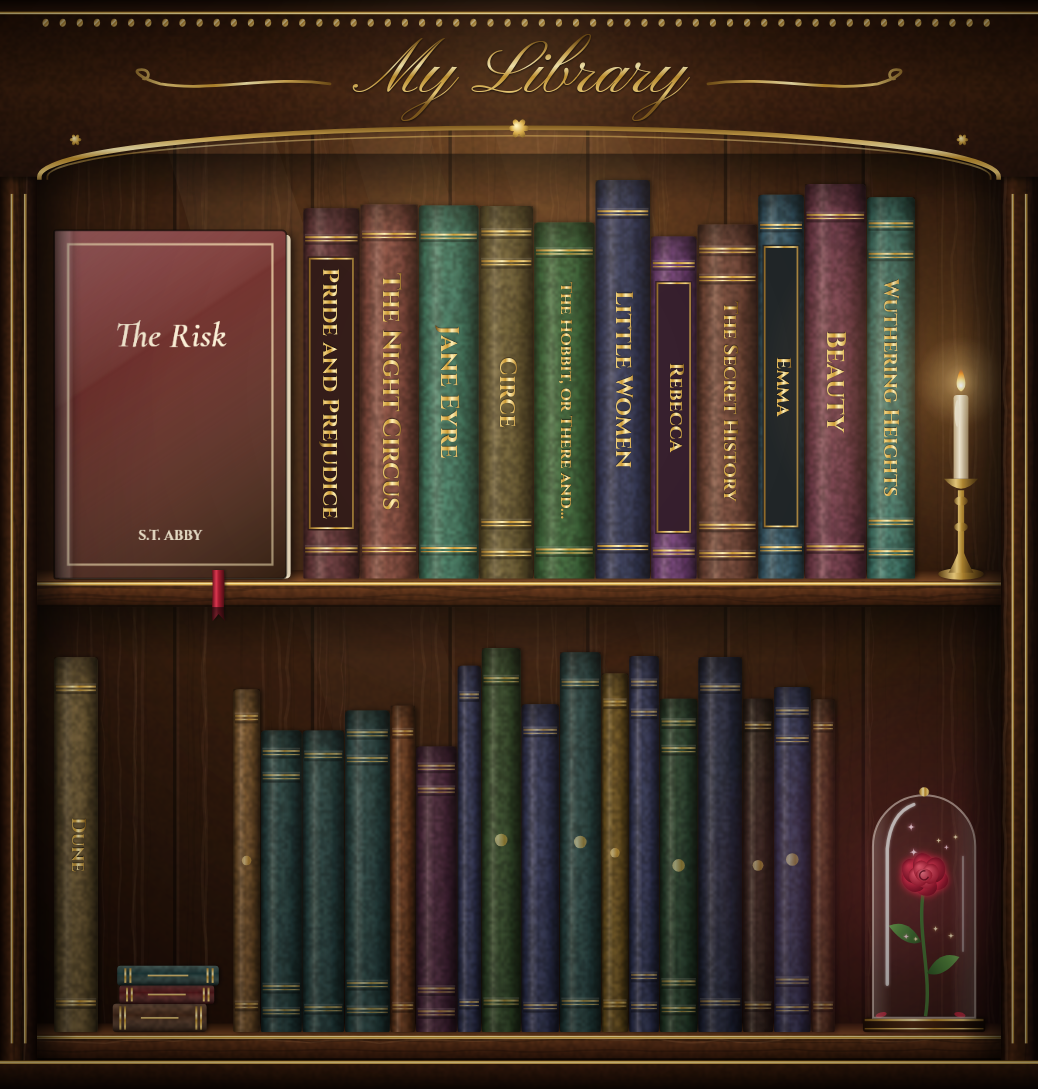
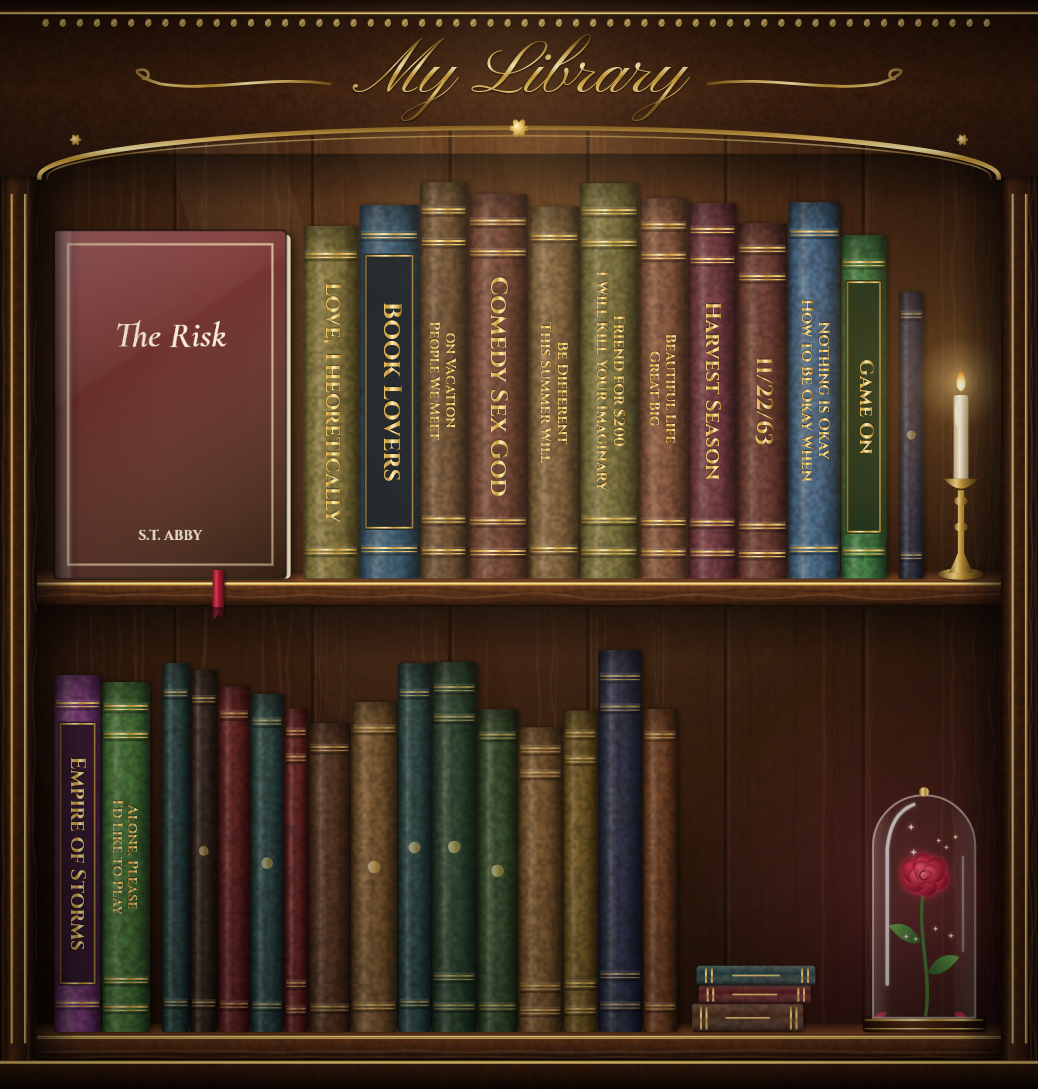
Wrap long spine titles onto two lines; brighter cover-tinted spines
Claude-Session: https://claude.ai/code/session_01DFpaGPqchzARfTBeW4za7c

diff --git a/enchanted-library-widget/EnchantedLibrary.js b/enchanted-library-widget/EnchantedLibrary.js
@@ -402,7 +402,7 @@ function renderLibrary(canvas, scene, makeCanvas) {
           tr += d[i] * wgt; tg += d[i + 1] * wgt; tb += d[i + 2] * wgt; tw += wgt;
         }
         const [h, s] = rgb2hsl([tr / tw, tg / tw, tb / tw]);
-        if (s > 0.12) base = hsl2rgb(h, clamp(s * 0.85, 0.3, 0.62), 0.2 + r() * 0.12);
+        if (s > 0.12) base = hsl2rgb(h, clamp(s * 0.9, 0.35, 0.72), 0.25 + r() * 0.1);
       } catch (e) { /* keep palette color */ }
     }
     return base;
@@ -624,22 +624,42 @@ function renderLibrary(canvas, scene, makeCanvas) {
       ctx.strokeRect(lx + 0.8 * u, t0 + 0.8 * u, lw - 1.6 * u, t1 - t0 - 1.6 * u);
     }
 
-    // Gilt title, running down the spine.
+    // Gilt title, running down the spine. Long titles wrap onto two lines
+    // when the spine is wide enough; otherwise they shrink, then truncate.
     const room = (t1 - t0) - 6 * u;
-    let text = shortTitle(title);
+    const text = shortTitle(title);
+    const setFont = size => { ctx.font = `700 ${size}px ${FONT_SPINE}`; };
+    const fits = (lines, size) => {
+      setFont(size);
+      return lines.every(l => ctx.measureText(l).width <= room);
+    };
+    let lines = [text];
     let fs = Math.min(w * 0.44, 10.5 * u);
-    ctx.font = `700 ${fs}px ${FONT_SPINE}`;
-    while (ctx.measureText(text).width > room && fs > 6 * u) {
-      fs -= 0.25 * u;
-      ctx.font = `700 ${fs}px ${FONT_SPINE}`;
-    }
-    if (ctx.measureText(text).width > room) {
+    while (!fits(lines, fs) && fs > 7.5 * u) fs -= 0.25 * u;
+    if (!fits(lines, fs) && text.includes(" ")) {
       const words = text.split(" ");
-      while (words.length > 1 && ctx.measureText(words.join(" ") + "…").width > room) words.pop();
-      text = words.join(" ");
-      while (text.length > 1 && ctx.measureText(text + "…").width > room) text = text.slice(0, -1);
-      text += "…";
+      let best = null;
+      for (let i = 1; i < words.length; i++) {
+        const pair = [words.slice(0, i).join(" "), words.slice(i).join(" ")];
+        setFont(10);
+        const longest = Math.max(...pair.map(l => ctx.measureText(l).width));
+        if (!best || longest < best.longest) best = { pair, longest };
+      }
+      lines = best.pair;
+      fs = Math.min(w * 0.3, 9 * u);
+      while (!fits(lines, fs) && fs > 5.5 * u) fs -= 0.25 * u;
+    } else {
+      while (!fits(lines, fs) && fs > 6 * u) fs -= 0.25 * u;
     }
+    setFont(fs);
+    lines = lines.map(line => {
+      if (ctx.measureText(line).width <= room) return line;
+      const words = line.split(" ");
+      while (words.length > 1 && ctx.measureText(words.join(" ") + "…").width > room) words.pop();
+      let t = words.join(" ");
+      while (t.length > 1 && ctx.measureText(t + "…").width > room) t = t.slice(0, -1);
+      return t + "…";
+    });
     ctx.save();
     ctx.translate(x + w / 2 + fs * 0.04, (t0 + t1) / 2);
     ctx.rotate(Math.PI / 2);
@@ -648,8 +668,14 @@ function renderLibrary(canvas, scene, makeCanvas) {
     ctx.shadowColor = "rgba(0,0,0,0.75)";
     ctx.shadowBlur = 1.2 * u;
     ctx.shadowOffsetY = -0.6 * u;
-    ctx.fillStyle = gold(0, -fs / 2, 0, fs / 2);
-    ctx.fillText(text, 0, 0);
+    const lh = fs * 1.12;
+    lines.forEach((line, i) => {
+      // Rotated 90° clockwise: the first line sits on the right, where a
+      // reader tilting their head to the right sees the top of the text.
+      const ly = ((lines.length - 1) / 2 - i) * lh;
+      ctx.fillStyle = gold(0, ly - fs / 2, 0, ly + fs / 2);
+      ctx.fillText(line, 0, ly);
+    });
     ctx.restore();
   }
 

diff --git a/enchanted-library-widget/tools/sample-feed.js b/enchanted-library-widget/tools/sample-feed.js
@@ -7,18 +7,19 @@ const sampleBooks = {
     book(33131867, "The Risk (Mindf*ck, #1)", "S.T. Abby", 355),
   ],
   favorites: [
-    book(10, "Pride and Prejudice", "Jane Austen", 345),
-    book(11, "The Night Circus", "Erin Morgenstern", 0),
-    book(12, "Jane Eyre", "Charlotte Brontë", 150),
-    book(13, "Circe", "Madeline Miller", 38),
-    book(14, "The Hobbit, or There and Back Again", "J.R.R. Tolkien", 120),
-    book(15, "Little Women", "Louisa May Alcott", 220),
-    book(16, "Rebecca", "Daphne du Maurier", 280),
-    book(17, "The Secret History", "Donna Tartt", 5),
-    book(18, "Emma", "Jane Austen", 190),
-    book(19, "Beauty: A Retelling of the Story of Beauty and the Beast", "Robin McKinley", 330),
-    book(20, "Wuthering Heights", "Emily Brontë", 160),
-    book(21, "Dune", "Frank Herbert", 30),
+    book("r1", "Love, Theoretically", "Ali Hazelwood", 40),
+    book("r2", "Book Lovers", "Emily Henry", 195),
+    book("r3", "People We Meet on Vacation", "Emily Henry", 20),
+    book("r4", "Comedy Sex God", "Pete Holmes", 5),
+    book("r5", "This Summer Will Be Different", "Carley Fortune", 25),
+    book("r6", "I Will Kill Your Imaginary Friend for $200", "Robert Brockway", 45),
+    book("r7", "Great Big Beautiful Life", "Emily Henry", 10),
+    book("r8", "Harvest Season (The Seasons of Carnage Trilogy, #2)", "Brynne Weaver", 340),
+    book("r9", "11/22/63", "Stephen King", 0),
+    book("r10", "How to Be Okay When Nothing Is Okay", "Jenny Lawson", 200),
+    book("r11", "Game On (Into Darkness, #3)", "Navessa Allen", 120),
+    book("r12", "Empire of Storms (Throne of Glass, #5)", "Sarah J. Maas", 290),
+    book("r13", "I'd Like to Play Alone, Please: Essays", "Tom Segura", 100),
   ],
 };
 
